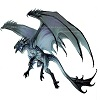
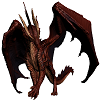
Loaded images instead of colors and improve gamecore flexibility

diff --git a/Pentago/Pentago/GUI/Game.xaml b/Pentago/Pentago/GUI/Game.xaml
@@ -1,20 +1,19 @@
 <Window x:Class="Pentago.Game"
         xmlns="http://schemas.microsoft.com/winfx/2006/xaml/presentation"
         xmlns:x="http://schemas.microsoft.com/winfx/2006/xaml"
-        Title="Game" Height="800" Width="800" WindowStartupLocation="CenterScreen" Background="#FF8E8E8E" WindowStyle="None" ResizeMode="NoResize" Closing="Window_Closing" WindowState="Maximized">
+        Title="Game" Height="900" Width="1440" WindowStartupLocation="CenterScreen" Background="#FF8E8E8E" WindowStyle="None" ResizeMode="NoResize" Closing="Window_Closing" WindowState="Maximized">
     <Grid>
-        <UniformGrid Name="Board" MouseDown="Board_MouseDown" Height="500" Width="500" Margin="0" Background="White">
-
-        </UniformGrid>
-        <Image Height="65" HorizontalAlignment="Left" Margin="139,50,0,0" Name="btnClockWise1" Stretch="Fill" VerticalAlignment="Top" Width="114"  Visibility="Hidden"  Source="/Pentago;component/GUI/images/ClockWise1.jpg" MouseDown="btnClockWise1_MouseDown" />
-        <Image Height="113" HorizontalAlignment="Left" Margin="55,130,0,0" Name="btnCounterClockWise1" Stretch="Fill" VerticalAlignment="Top" Width="67" Source="/Pentago;component/GUI/images/CounterClockWise1.jpg" MouseDown="btnCounterClockWise1_MouseDown" Visibility="Hidden" />
-        <Image Height="65" HorizontalAlignment="Left" Margin="519,50,0,0" Name="btnCounterClockWise2" Stretch="Fill" VerticalAlignment="Top" Width="120" Source="/Pentago;component/GUI/images/CounterClockWise2.jpg" MouseDown="btnCounterClockWise2_MouseDown" Visibility="Hidden" />
-        <Image Height="113" HorizontalAlignment="Left" Margin="653,130,0,0" Name="btnClockWise2" Stretch="Fill" VerticalAlignment="Top" Width="71" Source="/Pentago;component/GUI/images/ClockWise2.jpg" MouseDown="btnClockWise2_MouseDown" Visibility="Hidden" />
-        <Image Height="130" HorizontalAlignment="Left" Margin="42,491,0,0" Name="btnClockWise3" Stretch="Fill" VerticalAlignment="Top" Width="69" Source="/Pentago;component/GUI/images/ClockWise3.jpg" MouseDown="btnClockWise3_MouseDown" Visibility="Hidden" />
-        <Image Height="64" HorizontalAlignment="Left" Margin="139,652,0,0" Name="btnCounterClockWise3" Stretch="Fill" VerticalAlignment="Top" Width="154" Source="/Pentago;component/GUI/images/CounterClockWise3.jpg" MouseDown="btnCounterClockWise3_MouseDown" Visibility="Hidden" />
-        <Image Height="67" HorizontalAlignment="Left" Margin="480,650,0,0" Name="btnClockWise4" Stretch="Fill" VerticalAlignment="Top" Width="159" Source="/Pentago;component/GUI/images/ClockWise4.jpg" MouseDown="btnClockWise4_MouseDown" Visibility="Hidden" />
-        <Image Height="139" HorizontalAlignment="Left" Margin="658,491,0,0" Name="btnCounterClockWise4" Stretch="Fill" VerticalAlignment="Top" Width="75" Source="/Pentago;component/GUI/images/CounterClockWise4.jpg" MouseDown="btnCounterClockWise4_MouseDown" Visibility="Hidden" />
-        <Rectangle Height="58" HorizontalAlignment="Left" Margin="324,12,0,0" Name="ActivePlayer" Stroke="Black" VerticalAlignment="Top" Width="115" />
-        <Button Content="X" Height="23" HorizontalAlignment="Left" Margin="739,12,0,0" Name="btnClose" VerticalAlignment="Top" Width="27" Click="btnClose_Click" />
+        <UniformGrid Name="Board" MouseDown="Board_MouseDown" Height="500" Width="500" Margin="0" Background="White"></UniformGrid>
+        <Image Height="65" HorizontalAlignment="Left" Margin="459,83,0,0" Name="btnClockWise1" Stretch="Fill" VerticalAlignment="Top" Width="125"  Visibility="Hidden"  Source="/Pentago;component/GUI/images/ClockWise1.jpg" MouseDown="btnClockWise1_MouseDown" />
+        <Image Height="125" HorizontalAlignment="Left" Margin="363,180,0,0" Name="btnCounterClockWise1" Stretch="Fill" VerticalAlignment="Top" Width="65" Source="/Pentago;component/GUI/images/CounterClockWise1.jpg" MouseDown="btnCounterClockWise1_MouseDown" Visibility="Hidden" />
+        <Image Height="65" HorizontalAlignment="Left" Margin="836,89,0,0" Name="btnCounterClockWise2" Stretch="Fill" VerticalAlignment="Top" Width="125" Source="/Pentago;component/GUI/images/CounterClockWise2.jpg" MouseDown="btnCounterClockWise2_MouseDown" Visibility="Hidden" />
+        <Image Height="125" HorizontalAlignment="Left" Margin="994,180,0,0" Name="btnClockWise2" Stretch="Fill" VerticalAlignment="Top" Width="65" Source="/Pentago;component/GUI/images/ClockWise2.jpg" MouseDown="btnClockWise2_MouseDown" Visibility="Hidden" />
+        <Image Height="125" HorizontalAlignment="Left" Margin="366,554,0,0" Name="btnClockWise3" Stretch="Fill" VerticalAlignment="Top" Width="65" Source="/Pentago;component/GUI/images/ClockWise3.jpg" MouseDown="btnClockWise3_MouseDown" Visibility="Hidden" />
+        <Image Height="65" HorizontalAlignment="Left" Margin="458,712,0,0" Name="btnCounterClockWise3" Stretch="Fill" VerticalAlignment="Top" Width="125" Source="/Pentago;component/GUI/images/CounterClockWise3.jpg" MouseDown="btnCounterClockWise3_MouseDown" Visibility="Hidden" />
+        <Image Height="65" HorizontalAlignment="Left" Margin="837,714,0,0" Name="btnClockWise4" Stretch="Fill" VerticalAlignment="Top" Width="125" Source="/Pentago;component/GUI/images/ClockWise4.jpg" MouseDown="btnClockWise4_MouseDown" Visibility="Hidden" />
+        <Image Height="125" HorizontalAlignment="Left" Margin="992,555,0,0" Name="btnCounterClockWise4" Stretch="Fill" VerticalAlignment="Top" Width="65" Source="/Pentago;component/GUI/images/CounterClockWise4.jpg" MouseDown="btnCounterClockWise4_MouseDown" Visibility="Hidden" />
+        <Button Content="X" Height="23" HorizontalAlignment="Left" Margin="1365,12,0,0" Name="btnClose" VerticalAlignment="Top" Width="27" Click="btnClose_Click" />
+        <Rectangle Height="75" Name="ActivePlayer" Stroke="Black" Width="75" Margin="672,10,675,687" />
+        <TextBlock Height="78" HorizontalAlignment="Left" Margin="510,731,0,0" Name="winnerAnnoucement" Text="" VerticalAlignment="Top" Width="405" FontWeight="Bold" FontSize="24" FontFamily="Agency FB" />
     </Grid>
 </Window>

diff --git a/Pentago/Pentago/GUI/Main.xaml b/Pentago/Pentago/GUI/Main.xaml
@@ -1,10 +1,10 @@
 <Window x:Class="Pentago.MainWindow"
         xmlns="http://schemas.microsoft.com/winfx/2006/xaml/presentation"
         xmlns:x="http://schemas.microsoft.com/winfx/2006/xaml"
-        Title="Main" Height="319" Width="508" ResizeMode="NoResize" WindowStyle="None" WindowStartupLocation="CenterScreen" Closing="Window_Closing" WindowState="Maximized">
+        Title="Main" Height="900" Width="1440" ResizeMode="NoResize" WindowStyle="None" WindowStartupLocation="CenterScreen" Closing="Window_Closing" WindowState="Maximized" SizeToContent="Manual">
     <Grid Background="#FF767474">
-        <Button Content="Human vs Human" Height="39" HorizontalAlignment="Left" Margin="182,64,0,0" Name="btnQuickMatch" VerticalAlignment="Top" Width="116" Click="btnQuickMatch_Click" />
-        <Button Content="Human vs AI" Height="37" HorizontalAlignment="Left" Margin="182,141,0,0" Name="btnQuickMatchAI" VerticalAlignment="Top" Width="116" Click="btnQuickMatchAI_Click" />
-        <Button Content="X" Height="23" HorizontalAlignment="Left" Margin="446,12,0,0" Name="btnClose" VerticalAlignment="Top" Width="28" Click="btnClose_Click" />
+        <Button Content="Human vs Human" Height="39" HorizontalAlignment="Left" Margin="653,367,0,0" Name="btnQuickMatch" VerticalAlignment="Top" Width="116" Click="btnQuickMatch_Click" />
+        <Button Content="Human vs AI" Height="37" HorizontalAlignment="Left" Margin="653,440,0,0" Name="btnQuickMatchAI" VerticalAlignment="Top" Width="116" Click="btnQuickMatchAI_Click" />
+        <Button Content="X" Height="23" HorizontalAlignment="Left" Margin="1366,12,0,0" Name="btnClose" VerticalAlignment="Top" Width="28" Click="btnClose_Click" />
     </Grid>
 </Window>

diff --git a/Pentago/Pentago/GUI/Game.xaml.cs b/Pentago/Pentago/GUI/Game.xaml.cs
@@ -48,13 +48,13 @@ namespace Pentago
             switch (gameOptions._TypeOfGame)
             {
                 case GameOptions.TypeOfGame.QuickMatch:
-                    player1 = new Player(gameOptions._Player1Name, true, gameOptions._Player1Image);
-                    player2 = new Player(gameOptions._Player2Name, false, gameOptions._Player2Image);
+                    player1 = options._Player1;
+                    player2 = options._Player2;
                     gameBrain = new GameBrain(player1);
                     break;
                 case GameOptions.TypeOfGame.AI:
-                    player1 = new Player(gameOptions._Player1Name, true, gameOptions._Player1Image);
-                    computerPlayer = new computerAI(gameOptions._ComputerName, false, gameOptions._CopmuterImage, gameOptions._Difficulty);
+                    player1 = options._Player1;
+                    computerPlayer = options._ComputerPlayer;
                     gameBrain = new GameBrain(player1, computerPlayer);
                     if (!player1.ActivePlayer)
                         GetComputerMoveAsynchronously();
@@ -105,33 +105,37 @@ namespace Pentago
                         MakeRotationsVisible();
                 }
                 else if (winner != 0)
+                {
+                    RePaintBoard();
                     ShowWinner(winner);
+                }
             }
 
         }
 
         private void ShowWinner(int winner)
         {
-            string winnerAnnouncement = "";
+            string winnerText = "";
             switch (winner)
             {
                 case 1:
-                    winnerAnnouncement = "Congratulations " + player1.Name + " you have won!";
+                    winnerText = "Congratulations " + player1.Name + " you have won!";
                     break;
                 case 2:
                     if (gameOptions._TypeOfGame == GameOptions.TypeOfGame.QuickMatch)
-                        winnerAnnouncement = "Congratulations " + player2.Name + " you have won!";
+                        winnerText = "Congratulations " + player2.Name + " you have won!";
                     else if (gameOptions._TypeOfGame == GameOptions.TypeOfGame.AI)
-                        winnerAnnouncement = "Congratulations " + computerPlayer.Name + " you have won!";
+                        winnerText = "Congratulations " + computerPlayer.Name + " you have won!";
                     break;
                 case 3:
-                    winnerAnnouncement = "It is a tie.";
+                    winnerText = "It is a tie.";
                     break;
                 default:
                     break;
             }
 
-            MessageBox.Show(winnerAnnouncement, "Pentago", MessageBoxButton.OK);
+            winnerAnnoucement.Text = winnerText;
+            //MessageBox.Show(winnerAnnouncement, "Pentago", MessageBoxButton.OK);
         }
 
         private void ShowActivePlayer()
@@ -227,9 +231,11 @@ namespace Pentago
             // define the event handlers
             bw.DoWork += (sender, args) =>
             {
+                Console.WriteLine("Started AI thread.");
                 int winner = gameBrain.CheckForWin();
                 if (!gameBrain.MakeComputerMove() || winner != 0)
                 {
+                    Console.WriteLine("Cancelled AI thread.");
                     bw.CancelAsync();
                     if (winner != 0)
                         ShowWinner(winner);
@@ -238,8 +244,12 @@ namespace Pentago
             bw.RunWorkerCompleted += (sender, args) =>
             {
                 if (args.Error != null)  // if an exception occurred during DoWork,
+                {
+                    Console.WriteLine("Something went wrong with AI thread.");
                     MessageBox.Show(args.Error.ToString());  // do your error handling here
+                }
 
+                Console.WriteLine("Good with AI thread.");
                 int winner = gameBrain.CheckForWin();
                 if (winner == 0)
                 {
@@ -247,11 +257,17 @@ namespace Pentago
                     int computerMove = gameBrain.GetComputerMove();
                     Rectangle rec = (Rectangle)Board.Children[computerMove];
                     rec.Fill = computerPlayer.Image;
+                    RePaintBoard();
                     winner = gameBrain.CheckForWin();
                     if (winner != 0)
                         ShowWinner(winner);
                     else
                         GetComputerRotation();
+                }
+                else if (winner != 0)
+                {
+                    RePaintBoard();
+                    ShowWinner(winner);
                 }
 
             };
@@ -261,7 +277,7 @@ namespace Pentago
         private void GetComputerRotation()
         {
             /*****************************SIMULATE ANIMATION*****************************/
-            //Thread.Sleep(1000);
+            Thread.Sleep(1000);
             gameBrain.MakeComputerRotation();
             MakeRotationsHidden();
             RePaintBoard();

diff --git a/Pentago/Pentago/GUI/Main.xaml.cs b/Pentago/Pentago/GUI/Main.xaml.cs
@@ -12,6 +12,7 @@ using System.Windows.Media.Imaging;
 using System.Windows.Navigation;
 using System.Windows.Shapes;
 using Pentago.GUI;
+using Pentago.GameCore;
 using Pentago.AI;
 
 namespace Pentago
@@ -32,14 +33,18 @@ namespace Pentago
             //Idieally all this options will be set from GUI and then extracted
             //and passed to the gameOptions constructor
             string player1Name = "Diego Castillo";
+            bool isPlayer1Active = true;
             ImageBrush player1Image = new ImageBrush();
             player1Image.ImageSource = new BitmapImage(new Uri("pack://application:,,,/GUI/images/dragon1.jpg", UriKind.Absolute));
+            Player player1 = new Player(player1Name, isPlayer1Active, player1Image);
+
 
             string player2Name = "Antonio Banderas";
             ImageBrush player2Image = new ImageBrush();
             player2Image.ImageSource = new BitmapImage(new Uri("pack://application:,,,/GUI/images/dragon2.jpg", UriKind.Absolute));
+            Player player2 = new Player(player2Name, !isPlayer1Active, player2Image);
 
-            GameOptions gameOptions = new GameOptions(GameOptions.TypeOfGame.QuickMatch, player1Name, player1Image, player2Name, player2Image);
+            GameOptions gameOptions = new GameOptions(GameOptions.TypeOfGame.QuickMatch, player1, player2);
             Window gameWindow = new Game(gameOptions);
             App.Current.MainWindow = gameWindow;
             gameWindow.Show();
@@ -51,15 +56,18 @@ namespace Pentago
             //Idieally all this options will be set from GUI and then extracted
             //and passed to the gameOptions constructor 
             string player1Name = "Diego Castillo";
+            bool isPlayer1Active = true;
             ImageBrush player1Image = new ImageBrush();
             player1Image.ImageSource = new BitmapImage(new Uri("pack://application:,,,/GUI/images/dragon1.jpg", UriKind.Absolute));
+            Player player1 = new Player(player1Name, isPlayer1Active, player1Image);
 
             string computerPlayerName = "Miley Twerk";
             ImageBrush computerPlayerImage = new ImageBrush();
             computerPlayerImage.ImageSource = new BitmapImage(new Uri("pack://application:,,,/GUI/images/dragon2.jpg", UriKind.Absolute));
             computerAI.Difficulty difficulty = computerAI.Difficulty.Hard;
+            computerAI computerPlayer = new computerAI(computerPlayerName, !isPlayer1Active, computerPlayerImage, difficulty);
 
-            GameOptions gameOptions = new GameOptions(GameOptions.TypeOfGame.AI, player1Name, player1Image, computerPlayerName, computerPlayerImage, difficulty);
+            GameOptions gameOptions = new GameOptions(GameOptions.TypeOfGame.AI, player1, computerPlayer);
             Window gameWindow = new Game(gameOptions);
             App.Current.MainWindow = gameWindow;
             this.Hide();

diff --git a/Pentago/Pentago/GUI/Classes/GameOptions.cs b/Pentago/Pentago/GUI/Classes/GameOptions.cs
@@ -1,0 +1,37 @@
+using System;
+using System.Collections.Generic;
+using System.Linq;
+using System.Text;
+using System.Windows.Media;
+using Pentago.GameCore;
+using Pentago.AI;
+
+namespace Pentago.GUI
+{
+    public class GameOptions
+    {
+        public enum TypeOfGame { QuickMatch, Campaign, Network, AI };
+        public TypeOfGame _TypeOfGame;
+
+        //Human vs Human
+        public Player _Player1;
+        public Player _Player2;
+        public GameOptions(TypeOfGame typeOfGame, Player player1, Player player2)
+        {
+            this._TypeOfGame = typeOfGame;
+            this._Player1 = player1;
+            this._Player2 = player2;
+        }
+
+        //Human vs AI
+        public computerAI.Difficulty _Difficulty;
+        public computerAI _ComputerPlayer;
+        public GameOptions(TypeOfGame typeOfGame, Player player1, computerAI computerPlayer)
+        {
+            this._TypeOfGame = typeOfGame;
+            this._Player1 = player1;
+            this._ComputerPlayer = computerPlayer;
+        }
+         
+    }
+}
